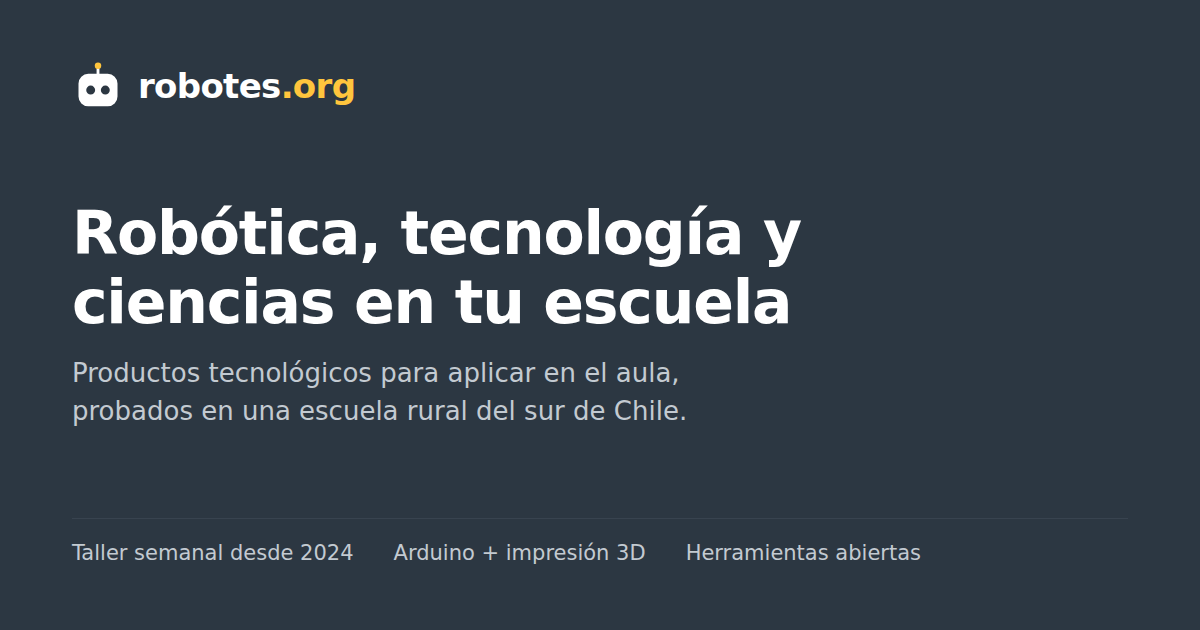
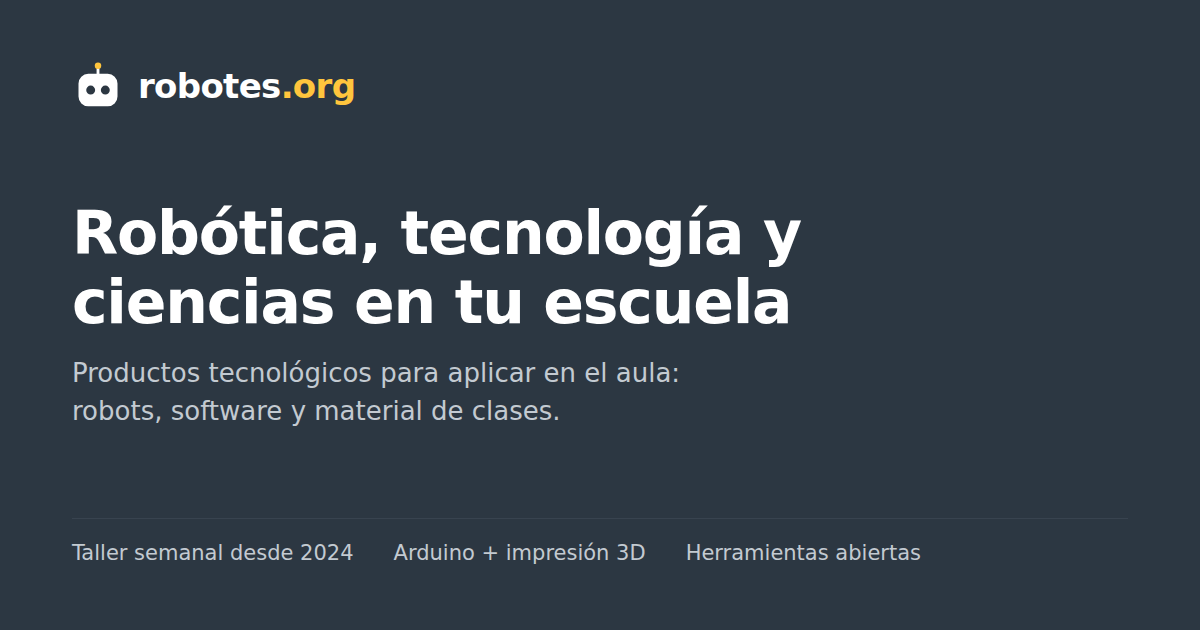
Acorta la bajada de la portada

Changed region(s): [[0.0617, 0.6333, 0.5858, 0.6937]]

diff --git a/index.html b/index.html
@@ -4,7 +4,7 @@
 <meta charset="UTF-8">
 <meta name="viewport" content="width=device-width, initial-scale=1">
 <title>robotes.org — Laboratorio de innovación educativa</title>
-<meta name="description" content="Creamos productos tecnológicos para aplicar en el aula: robots, software y material de clases. Todo se prueba en un taller semanal, dentro de una escuela rural del sur de Chile.">
+<meta name="description" content="Creamos productos tecnológicos para aplicar en el aula: robots, software y material de clases. Laboratorio de innovación educativa en el sur de Chile.">
 <meta name="theme-color" content="#2c3742">
 <link rel="icon" href="assets/logo/favicon.svg" type="image/svg+xml">
 <link rel="stylesheet" href="assets/tokens.css">
@@ -13,7 +13,7 @@
 <meta property="og:locale" content="es_CL">
 <meta property="og:site_name" content="robotes.org">
 <meta property="og:title" content="Robótica, tecnología y ciencias en tu escuela">
-<meta property="og:description" content="Creamos productos tecnológicos para aplicar en el aula: robots, software y material de clases. Probados en un taller semanal, en una escuela rural del sur de Chile.">
+<meta property="og:description" content="Creamos productos tecnológicos para aplicar en el aula: robots, software y material de clases.">
 <meta property="og:image" content="assets/og.png">
 <meta property="og:url" content="https://robotes.org/">
 <meta name="twitter:card" content="summary_large_image">
@@ -424,8 +424,7 @@
       <h1>Robótica, tecnología y ciencias en tu escuela.</h1>
       <p class="lede">
         Creamos productos tecnológicos para aplicar en el aula: robots, software y material
-        de clases. Todo se prueba en un taller semanal, dentro de una escuela rural del sur
-        de Chile, antes de llegar a la tuya.
+        de clases.
       </p>
       <!-- The call to action is always the conversation, never a scroll. The second
            button is a way into the page, not a competing action. -->

diff --git a/assets/og-card.html b/assets/og-card.html
@@ -60,7 +60,7 @@
 
   <div>
     <h1>Robótica, tecnología y ciencias en tu escuela</h1>
-    <p class="lede">Productos tecnológicos para aplicar en el aula, probados en una escuela rural del sur de Chile.</p>
+    <p class="lede">Productos tecnológicos para aplicar en el aula: robots, software y material de clases.</p>
   </div>
 
   <div class="foot">
